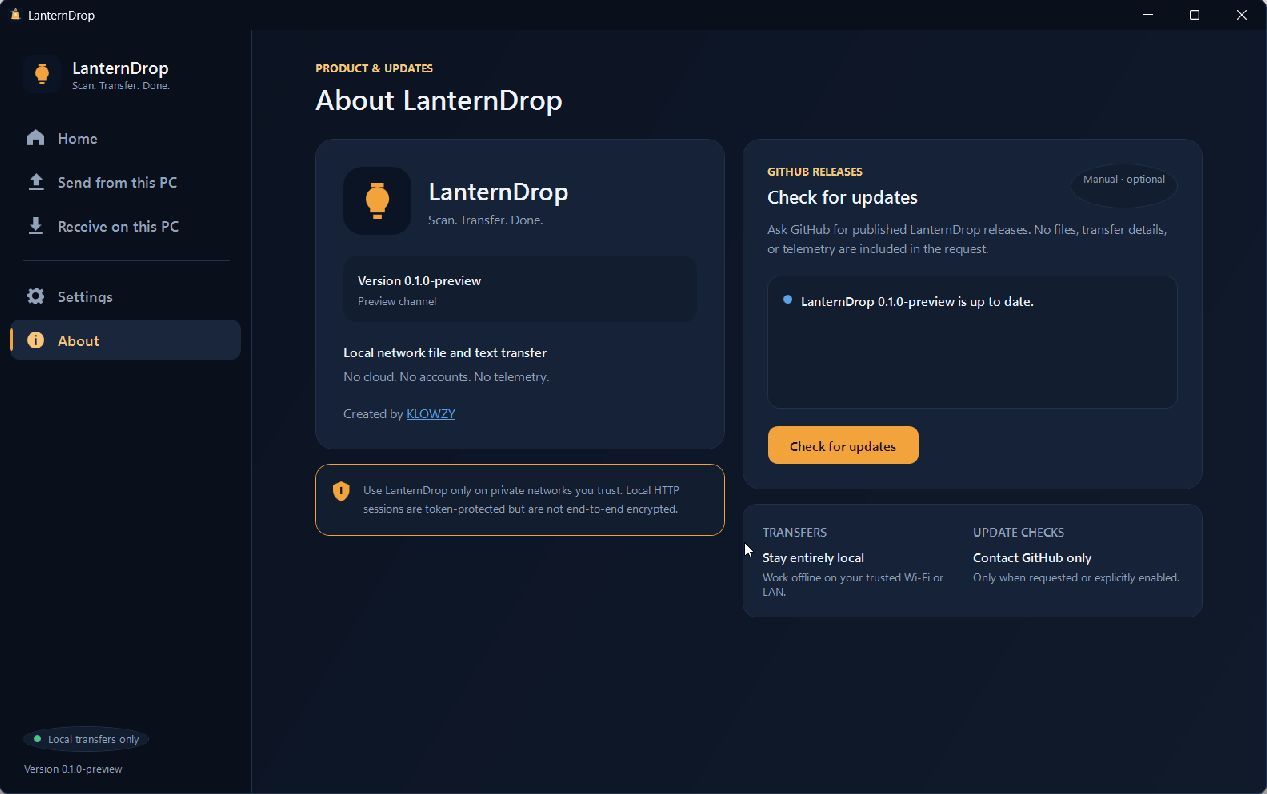
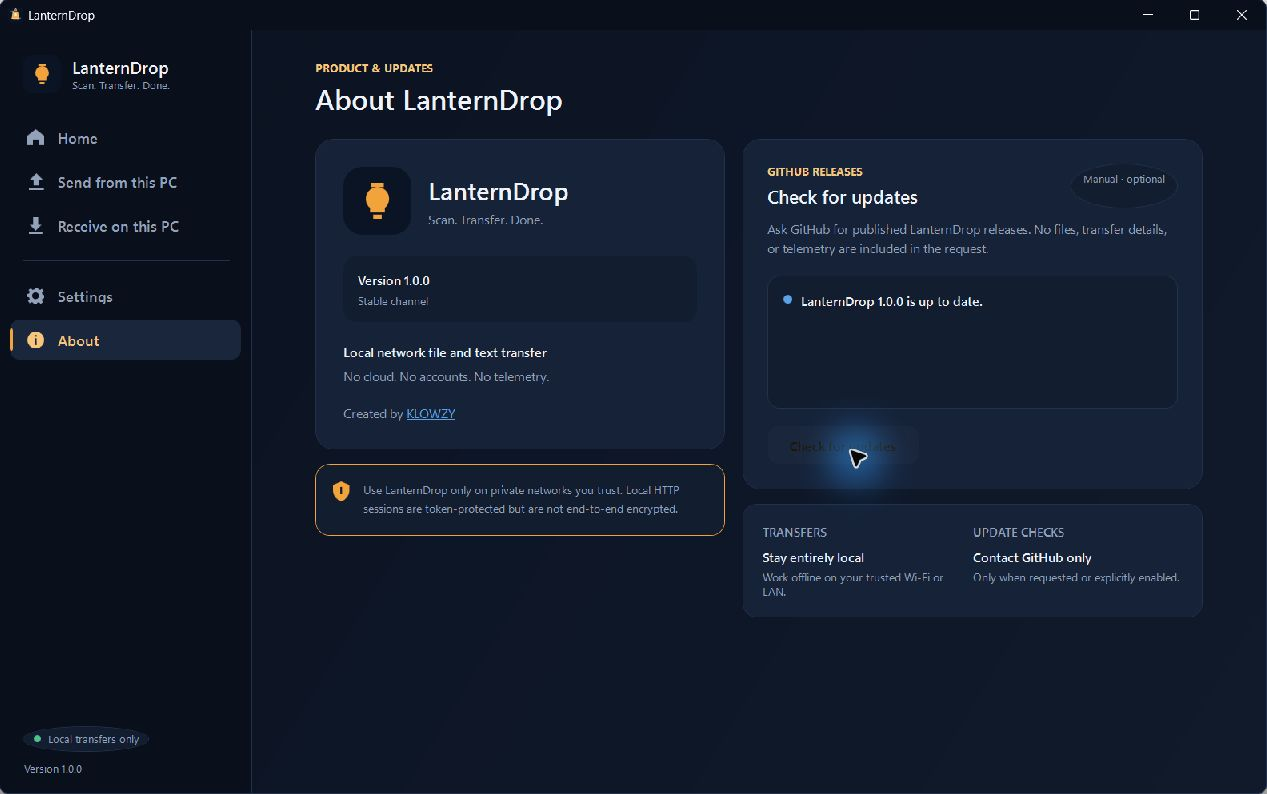
Publish LanternDrop 1.0.0 documentation

diff --git a/README.md b/README.md
@@ -8,17 +8,17 @@
 
 LanternDrop is a Windows 11 application for exchanging files and plain text with a phone on the same private local network. Scan one temporary QR code and transfer directly between the two devices—no phone application, browser extension, account, cloud storage, or telemetry required.
 
-> **Preview release:** LanternDrop 0.1.0-preview is ready for personal evaluation. It is pre-release software and may change in later updates.
+> **Stable release:** LanternDrop 1.0.0 is the first general release of LanternDrop.
 
 ## Download
 
-[**Download LanternDrop 0.1.0 Preview**](https://github.com/KlowzyZ/LanternDrop/releases/tag/v0.1.0-preview)
+[**Download LanternDrop 1.0.0**](https://github.com/KlowzyZ/LanternDrop/releases/latest)
 
 | Asset | Use |
 |---|---|
-| [LanternDrop.exe](https://github.com/KlowzyZ/LanternDrop/releases/download/v0.1.0-preview/LanternDrop.exe) | Standalone Windows x64 application |
-| [LanternDrop-0.1.0-preview-win-x64.zip](https://github.com/KlowzyZ/LanternDrop/releases/download/v0.1.0-preview/LanternDrop-0.1.0-preview-win-x64.zip) | ZIP containing the standalone application |
-| [SHA256SUMS.txt](https://github.com/KlowzyZ/LanternDrop/releases/download/v0.1.0-preview/SHA256SUMS.txt) | Published SHA-256 checksums |
+| [LanternDrop.exe](https://github.com/KlowzyZ/LanternDrop/releases/latest/download/LanternDrop.exe) | Standalone Windows x64 application |
+| [LanternDrop-1.0.0-win-x64.zip](https://github.com/KlowzyZ/LanternDrop/releases/latest/download/LanternDrop-1.0.0-win-x64.zip) | ZIP containing the standalone application |
+| [SHA256SUMS.txt](https://github.com/KlowzyZ/LanternDrop/releases/latest/download/SHA256SUMS.txt) | Published SHA-256 checksums |
 
 The executable is not currently code-signed, so Windows may display a Microsoft Defender SmartScreen warning. Windows Firewall may also ask whether LanternDrop can communicate on **Private networks** when a local session starts.
 
@@ -50,7 +50,7 @@ The primary target is **Windows 11 x64**. The phone needs a modern browser and m
 
 ![LanternDrop Settings](screenshots/settings-dark.png)
 
-![LanternDrop About showing the current preview is up to date](screenshots/about-up-to-date.png)
+![LanternDrop About showing the current stable release is up to date](screenshots/about-up-to-date.png)
 
 <details>
 <summary>Light theme</summary>
@@ -75,9 +75,9 @@ Update checks contact GitHub only when manually requested or when **Automaticall
 
 LanternDrop transfer traffic uses local HTTP and is **not encrypted or end-to-end encrypted**. The temporary random token reduces casual unauthorized access, but it cannot protect traffic from a capable local-network interceptor. Use LanternDrop only on a trusted private network or personal hotspot. Public or shared Wi-Fi is not recommended.
 
-This preview has not received an external security audit. See [SECURITY.md](SECURITY.md) for responsible reporting guidance.
+LanternDrop has not received an external security audit. See [SECURITY.md](SECURITY.md) for responsible reporting guidance.
 
-## Preview limitations
+## Known limitations
 
 - Windows 11 x64 is the primary target.
 - A trusted private LAN is required; IPv4 is used for sessions.
@@ -85,7 +85,7 @@ This preview has not received an external security audit. See [SECURITY.md](SECU
 - The unsigned executable may trigger SmartScreen.
 - Windows Firewall policy can require a user decision for Private-network access.
 - Automatic download or installation of updates is not included.
-- The preview has not received an external security audit.
+- LanternDrop has not received an external security audit.
 - Formal licensing terms are not finalized.
 
 ## Developer and copyright
@@ -94,4 +94,4 @@ Developed by [**KLOWZY**](https://github.com/KlowzyZ).
 
 Copyright © 2026 KLOWZY. All rights reserved.
 
-LanternDrop 0.1.0-preview is provided as a free preview for personal evaluation and use. Formal licensing terms may be introduced in a future release.
+LanternDrop 1.0.0 is provided free for personal use and evaluation. Formal licensing terms for redistribution or commercial use may be introduced in a future release.

diff --git a/CHANGELOG.md b/CHANGELOG.md
@@ -1,5 +1,22 @@
 # Changelog
 
+## 1.0.0 — First Stable Release
+
+### Included
+
+- The complete hardened LanternDrop send/receive feature set from the public preview.
+- Stable-channel update discovery that ignores future prerelease builds.
+- Refreshed Windows x64 executable, ZIP package, documentation, and SHA-256 checksums.
+
+### Known limitations
+
+- Windows 11 x64 is the primary target.
+- A trusted private LAN is required; local HTTP traffic is not encrypted.
+- The executable is unsigned and may trigger Microsoft Defender SmartScreen.
+- Windows Firewall may require a user decision for Private-network access.
+- LanternDrop has not received an external security audit.
+- Automatic download or self-installation of updates is not included.
+
 ## 0.1.0-preview — Initial Preview
 
 ### Included

diff --git a/SECURITY.md b/SECURITY.md
@@ -1,13 +1,13 @@
 # LanternDrop Security
 
-LanternDrop 0.1.0-preview is intended only for trusted private networks.
+LanternDrop 1.0.0 is intended only for trusted private networks.
 
 ## Network model
 
 - Transfer traffic uses local HTTP and is not encrypted.
 - The random temporary session token reduces casual unauthorized access, but it does not protect against a capable attacker who can intercept or modify local-network traffic.
 - Public, shared, or otherwise untrusted Wi-Fi is not recommended.
-- The preview has not received an external security audit.
+- LanternDrop has not received an external security audit.
 
 Use a trusted home LAN or personal hotspot, keep the QR code and session link private, and stop the temporary session when the transfer is finished.
 
